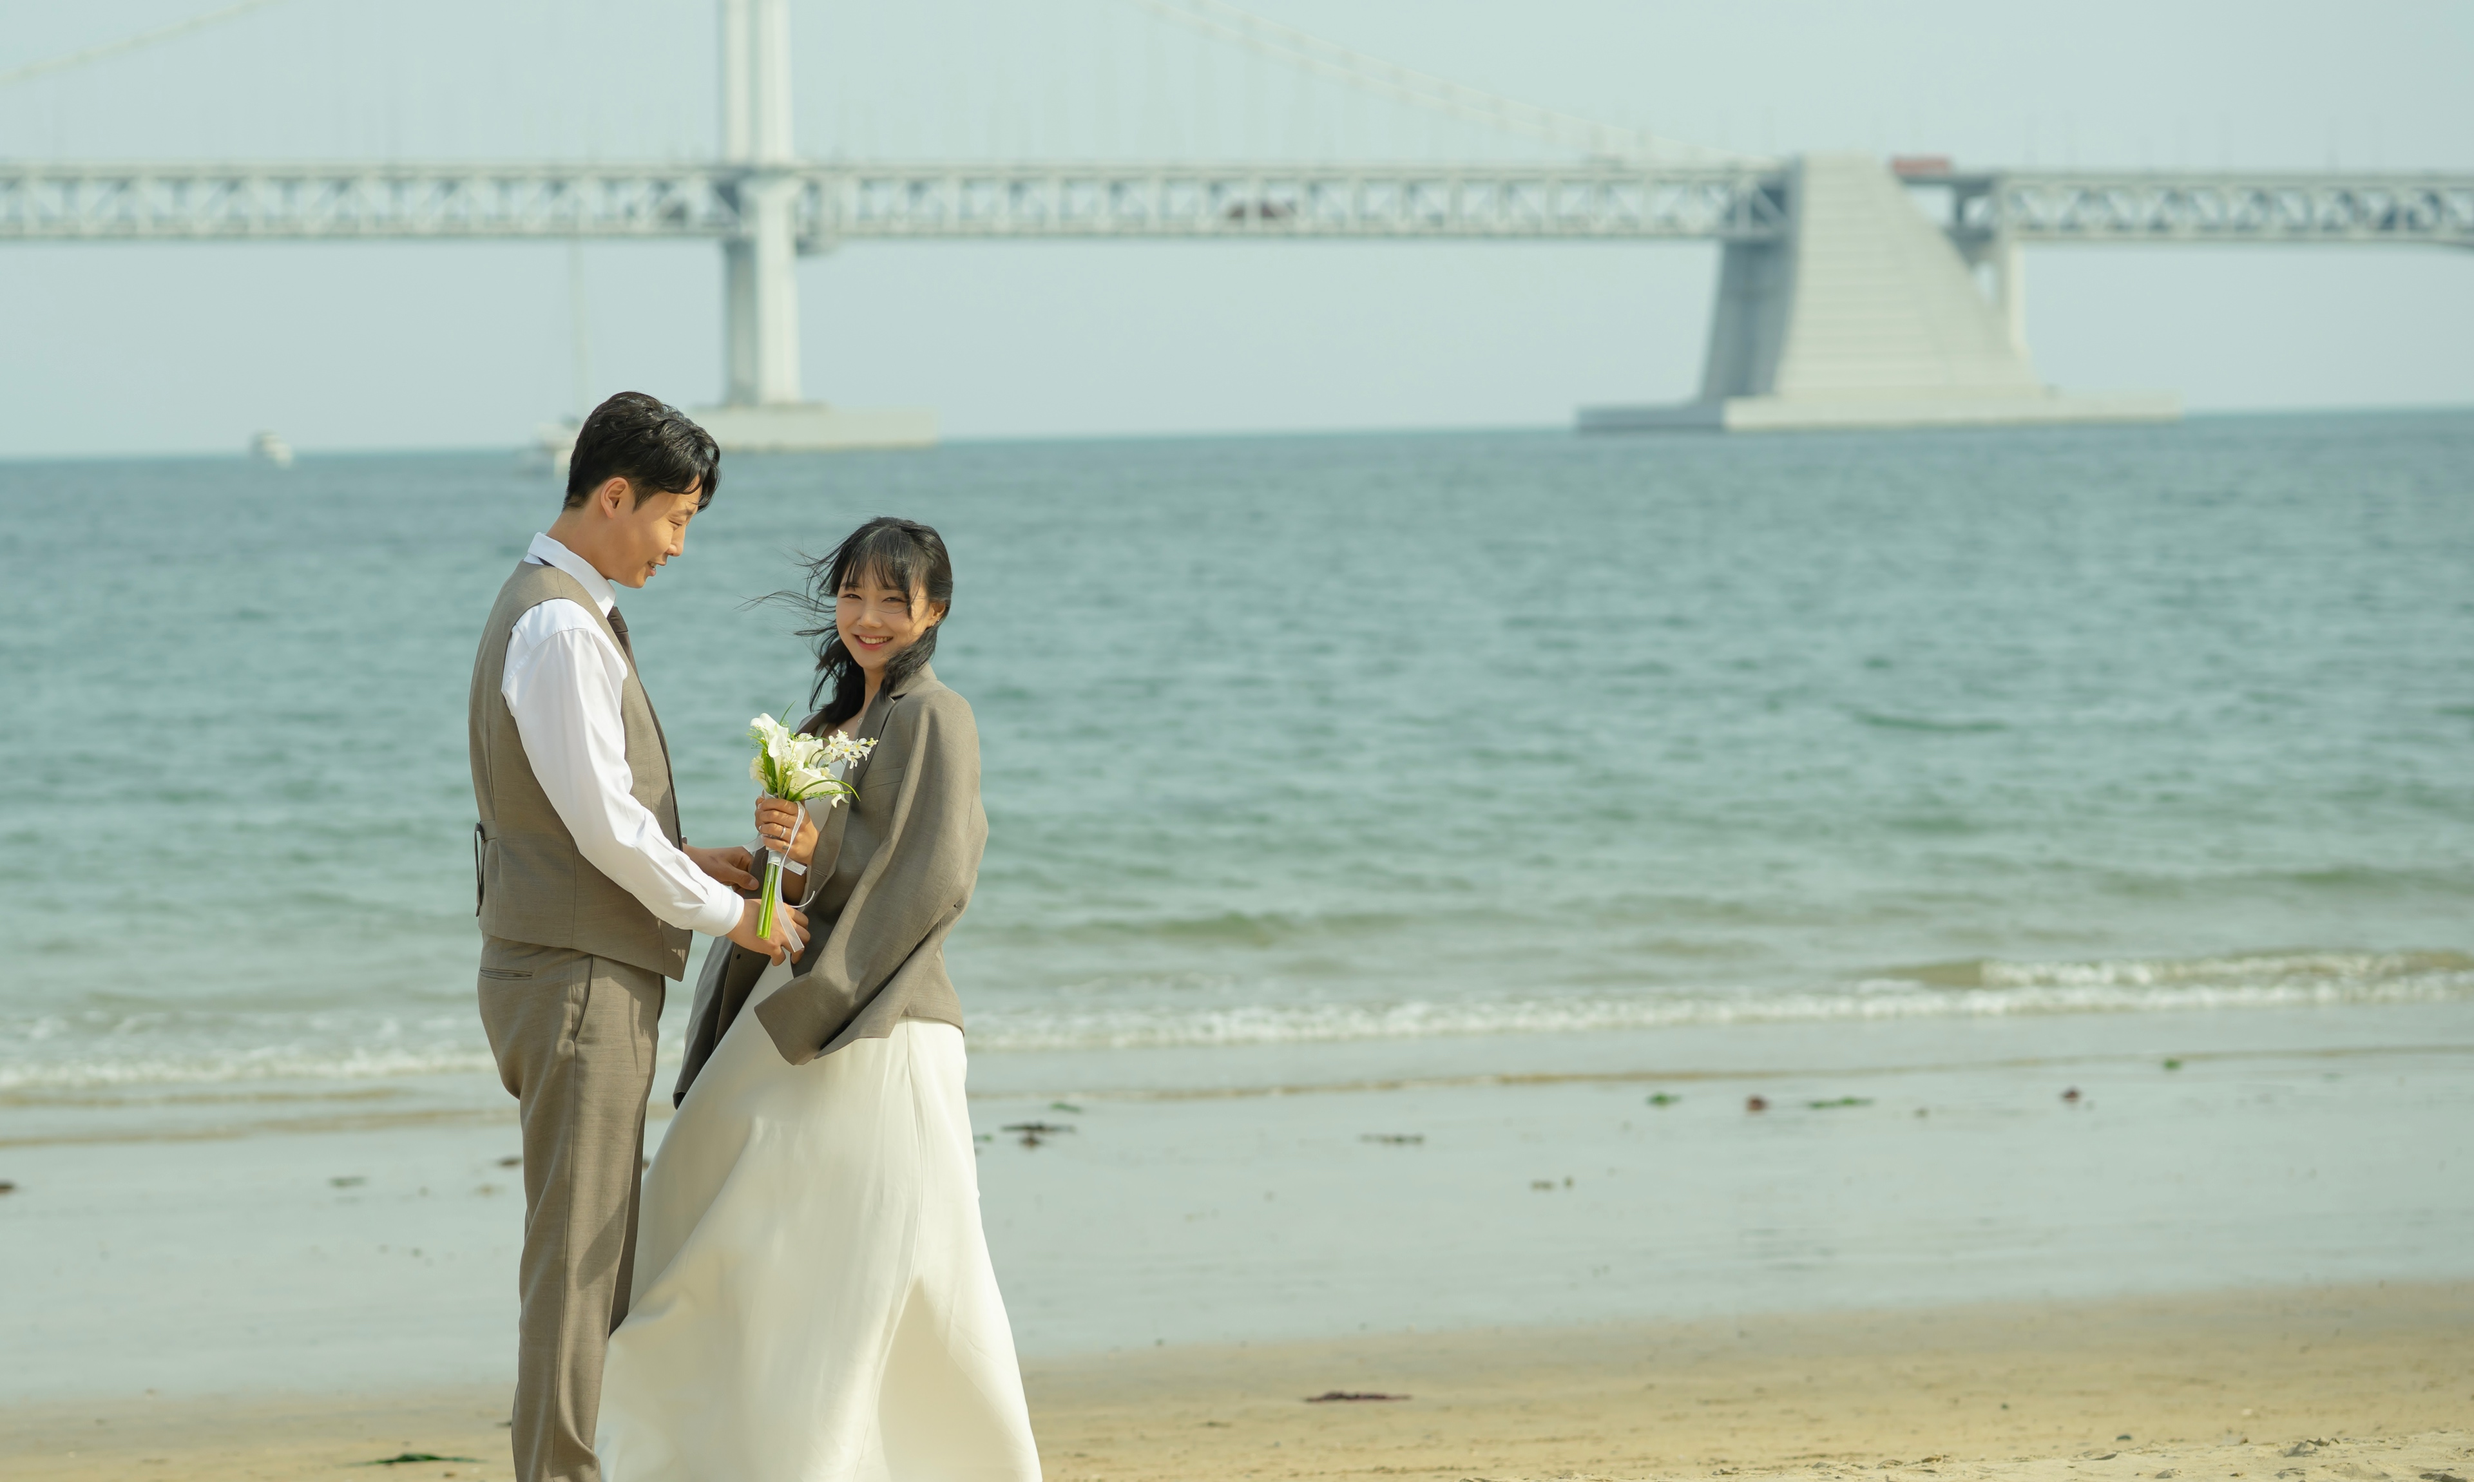
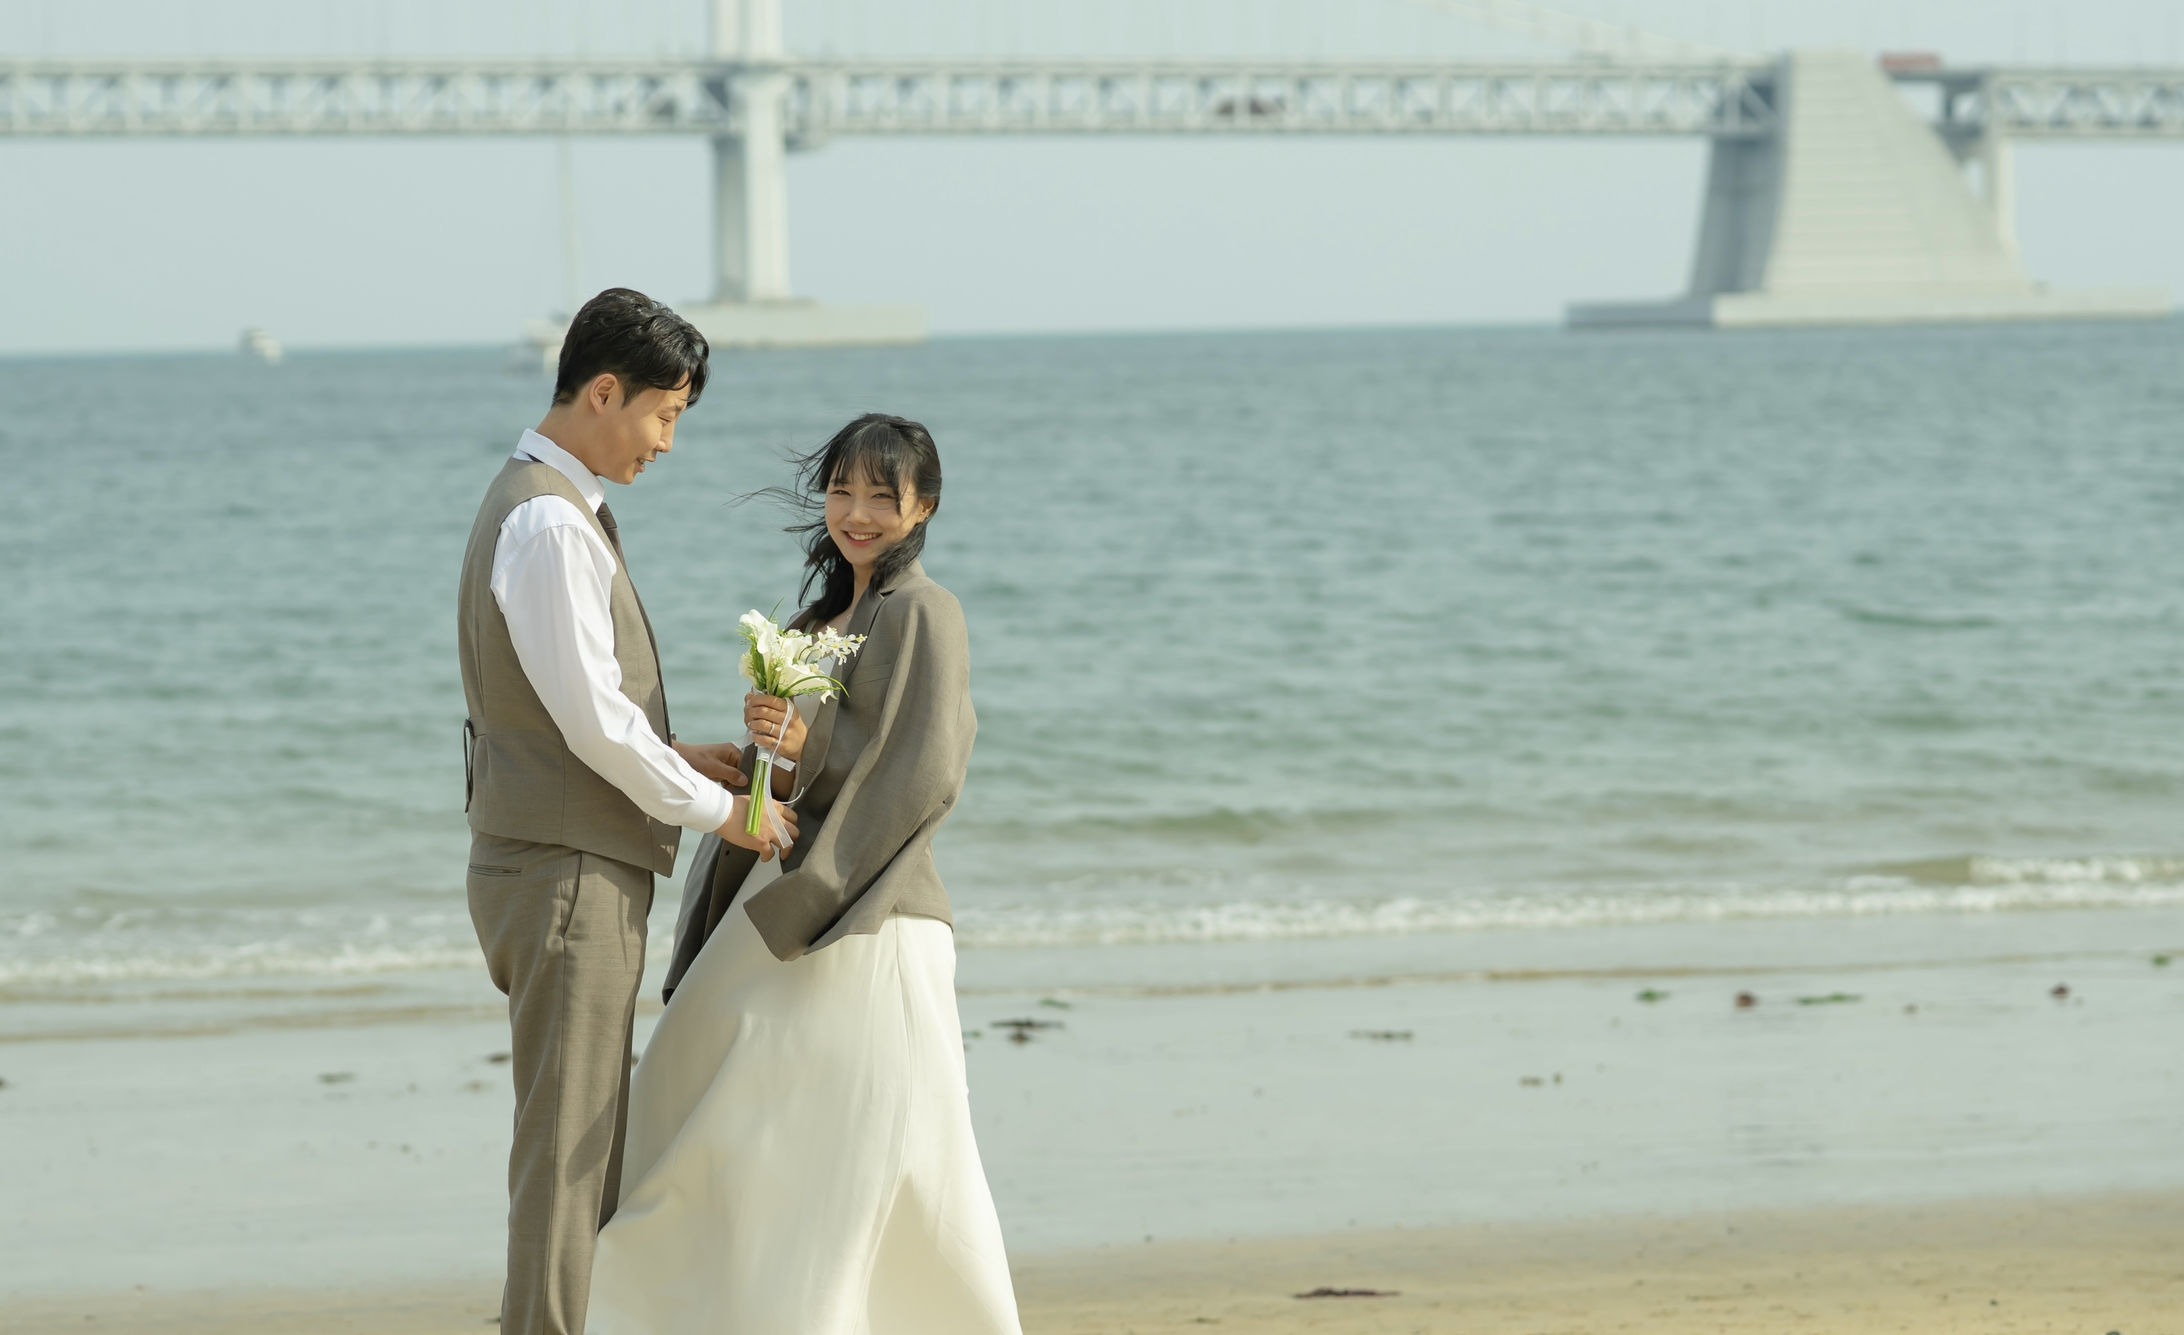
fix: 사진 엑박 수정

diff --git a/components/PhotoGallery.tsx b/components/PhotoGallery.tsx
@@ -6,9 +6,9 @@ export const PhotoGallery = () => {
   const [currentPhoto, setCurrentPhoto] = useState(0);
   const imageArray = [
     {
-      path: "1.JPG",
-      width: 3840,
-      height: 2301,
+      path: "1.jpg",
+      width: 3390,
+      height: 2073,
     },
     {
       path: "2.jpg",
@@ -31,12 +31,12 @@ export const PhotoGallery = () => {
       height: 3030,
     },
     {
-      path: "6.JPEG",
+      path: "6.jpeg",
       width: 2973,
       height: 3774,
     },
     {
-      path: "7.JPG",
+      path: "7.jpg",
       width: 2560,
       height: 3840,
     },
@@ -61,17 +61,17 @@ export const PhotoGallery = () => {
       height: 1870,
     },
     {
-      path: "12.JPG",
+      path: "12.jpg",
       width: 2560,
       height: 3840,
     },
     {
-      path: "13.JPEG",
+      path: "13.jpeg",
       width: 3840,
       height: 2559,
     },
     {
-      path: "14.JPG",
+      path: "14.jpg",
       width: 3840,
       height: 2560,
     },
